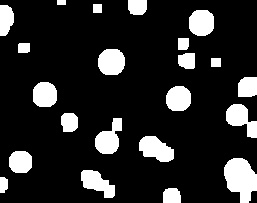
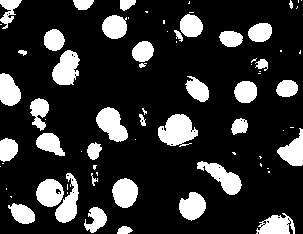
final

diff --git a/count_eggs_4.py b/count_eggs_4.py
@@ -1,3 +1,4 @@
+# Note: I used Python 3.6.5 and OpenCV 3.4.2. The result varied on the VLab Computer with Python 2.7 producing incorrect output
 import sys
 import cv2
 import numpy as np
@@ -5,26 +6,32 @@ import numpy as np
 
 def count_eggs_4(im1,min_comp_size):
     # mask = filtered_k_means_thresholding(im1)
+    thresh = 0
+    if(im1.max() == 255):
+        thresh = 100
+
+    # hist = cv2.calcHist([hsv], [0, 1], None, [180, 256], [0, 180, 0, 256])
+    # cv2.calcHist()
+
     kernel2 = cv2.getStructuringElement(cv2.MORPH_ELLIPSE,(8,8))
     im2 = cv2.morphologyEx(im1,cv2.MORPH_OPEN,kernel2)
     kernel2 = cv2.getStructuringElement(cv2.MORPH_ELLIPSE,(2,2))
     mask = cv2.morphologyEx(im2,cv2.MORPH_CLOSE,kernel2)
-    cv2.imshow('test',mask)
-    mask = im1 > 0
+    mask = im1
     label_mask = np.zeros_like(mask,dtype=np.uint8)
-    neighbour = [(-1,0),(1,0),(0,-1),(0,1)]
+    neighbour = [(-1,0),(1,0),(0,-1),(0,1),(1,1),(1,-1),(-1,1),(1,1)]
     label_count = 1
 
     # First Pass of finding Connected Components
     for x in range(mask.shape[1]):
             for y in range(mask.shape[0]):
-                if mask[y,x] != 0:
+                if mask[y,x] > thresh:
                     label_low =  label_count
                     found = False
-                    for i in range(4):
-                        # Check if neighbour is within the 
+                    for i in range(8):
+                        # Check if neighbour is within the boundary of imagee
                         if 0<=y+neighbour[i][0]<mask.shape[0] and 0<=x+neighbour[i][1]<mask.shape[1]:
-                            if mask[y+neighbour[i][0],x+neighbour[i][1]] != 0 and label_mask[y+neighbour[i][0],x+neighbour[i][1]] != 0:
+                            if mask[y+neighbour[i][0],x+neighbour[i][1]] >thresh and label_mask[y+neighbour[i][0],x+neighbour[i][1]] != 0:
                                 if label_mask[y+neighbour[i][0],x+neighbour[i][1]] < label_low:
                                     label_low = label_mask[y+neighbour[i][0],x+neighbour[i][1]]
                                     found = True
@@ -36,9 +43,9 @@ def count_eggs_4(im1,min_comp_size):
     # Second Pass for finding connected components
     for x in range(label_mask.shape[1]):
         for y in range(label_mask.shape[0]):
-            if mask[y,x] != 0:
+            if mask[y,x] > thresh:
                 label_low = label_mask[y,x]
-                for i in range(4):
+                for i in range(8):
                     if 0<=y+neighbour[i][0]<mask.shape[0] and 0<=x+neighbour[i][1]<mask.shape[1]:
                         if 0<label_mask[y+neighbour[i][0],x+neighbour[i][1]]<label_low:
                             label_low = label_mask[y+neighbour[i][0],x+neighbour[i][1]]
@@ -50,6 +57,7 @@ def count_eggs_4(im1,min_comp_size):
         for y in range(label_mask.shape[0]):
             size_count[label_mask[y,x]] += 1
 
+    # Remove smaller components from labels
     for x in range(label_mask.shape[1]):
         for y in range(label_mask.shape[0]):
             if (size_count[label_mask[y,x]] < min_comp_size):
@@ -74,8 +82,6 @@ def count_eggs_4(im1,min_comp_size):
     color_img[:,:,0] = color_img[:,:,0] - label_mask * 40
     color_img[:,:,1] = color_img[:,:,1] - label_mask * 12
     color_img[:,:,2] = color_img[:,:,2] - label_mask * 42
-    cv2.imshow('colour image',color_img)
-    cv2.waitKey(0)
     return color_img
     
 

diff --git a/filtered_k_means_thresholding.py b/filtered_k_means_thresholding.py
@@ -1,3 +1,4 @@
+# Note: I used Python 3.6.5 and OpenCV 3.4.2. The result varied on the VLab Computer with Python 2.7 producing incorrect output
 import sys
 import cv2
 import numpy as np
@@ -17,9 +18,9 @@ def filtered_k_means_thresholding(im1):
     # cv2.imshow('Original',im1)
     # cv2.imshow('Mask',mask)
     # cv2.imshow('Mask Open',mask_open)
-    cv2.imshow('Mask Open2',mask_open2)
-    cv2.imshow('Mask Open2 Close',mask_open2_close)
-    cv2.waitKey(0)
+    # cv2.imshow('Mask Open2',mask_open2)
+    # cv2.imshow('Mask Open2 Close',mask_open2_close)
+    # cv2.waitKey(0)
     return mask_open2_close
 
 

diff --git a/k_means_thresholding.py b/k_means_thresholding.py
@@ -1,3 +1,4 @@
+# Note: I used Python 3.6.5 and OpenCV 3.4.2. The result varied on the VLab Computer with Python 2.7 producing incorrect output
 import sys
 import cv2
 import numpy as np
